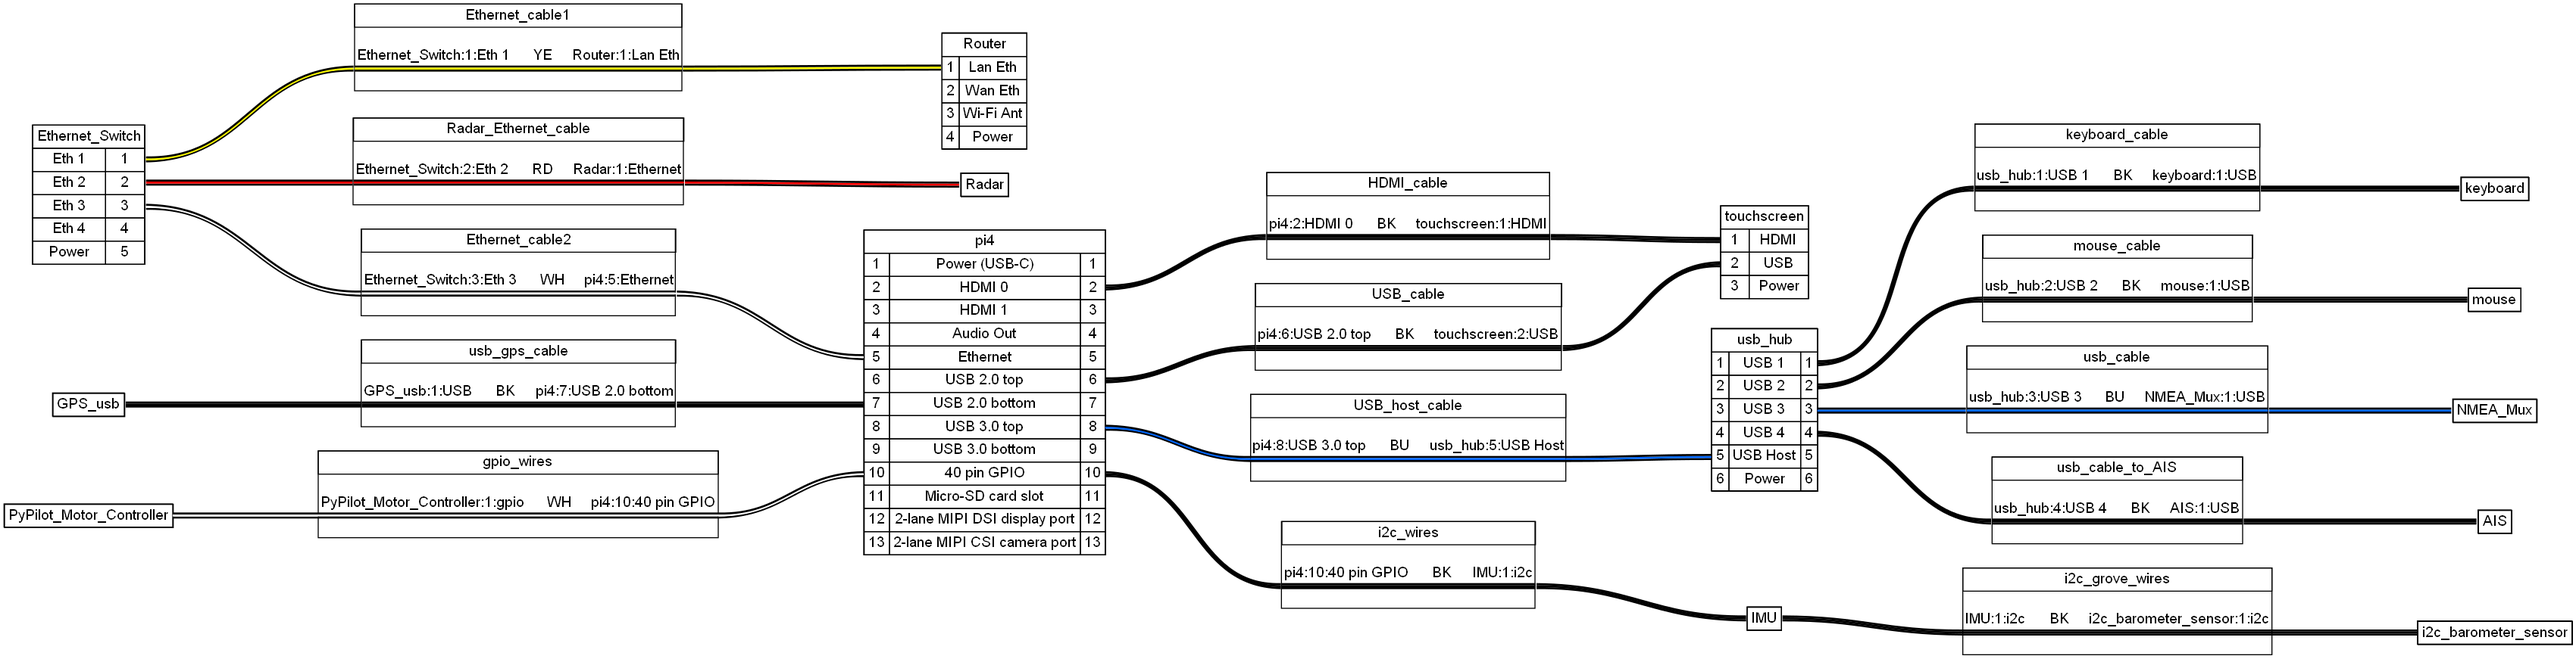
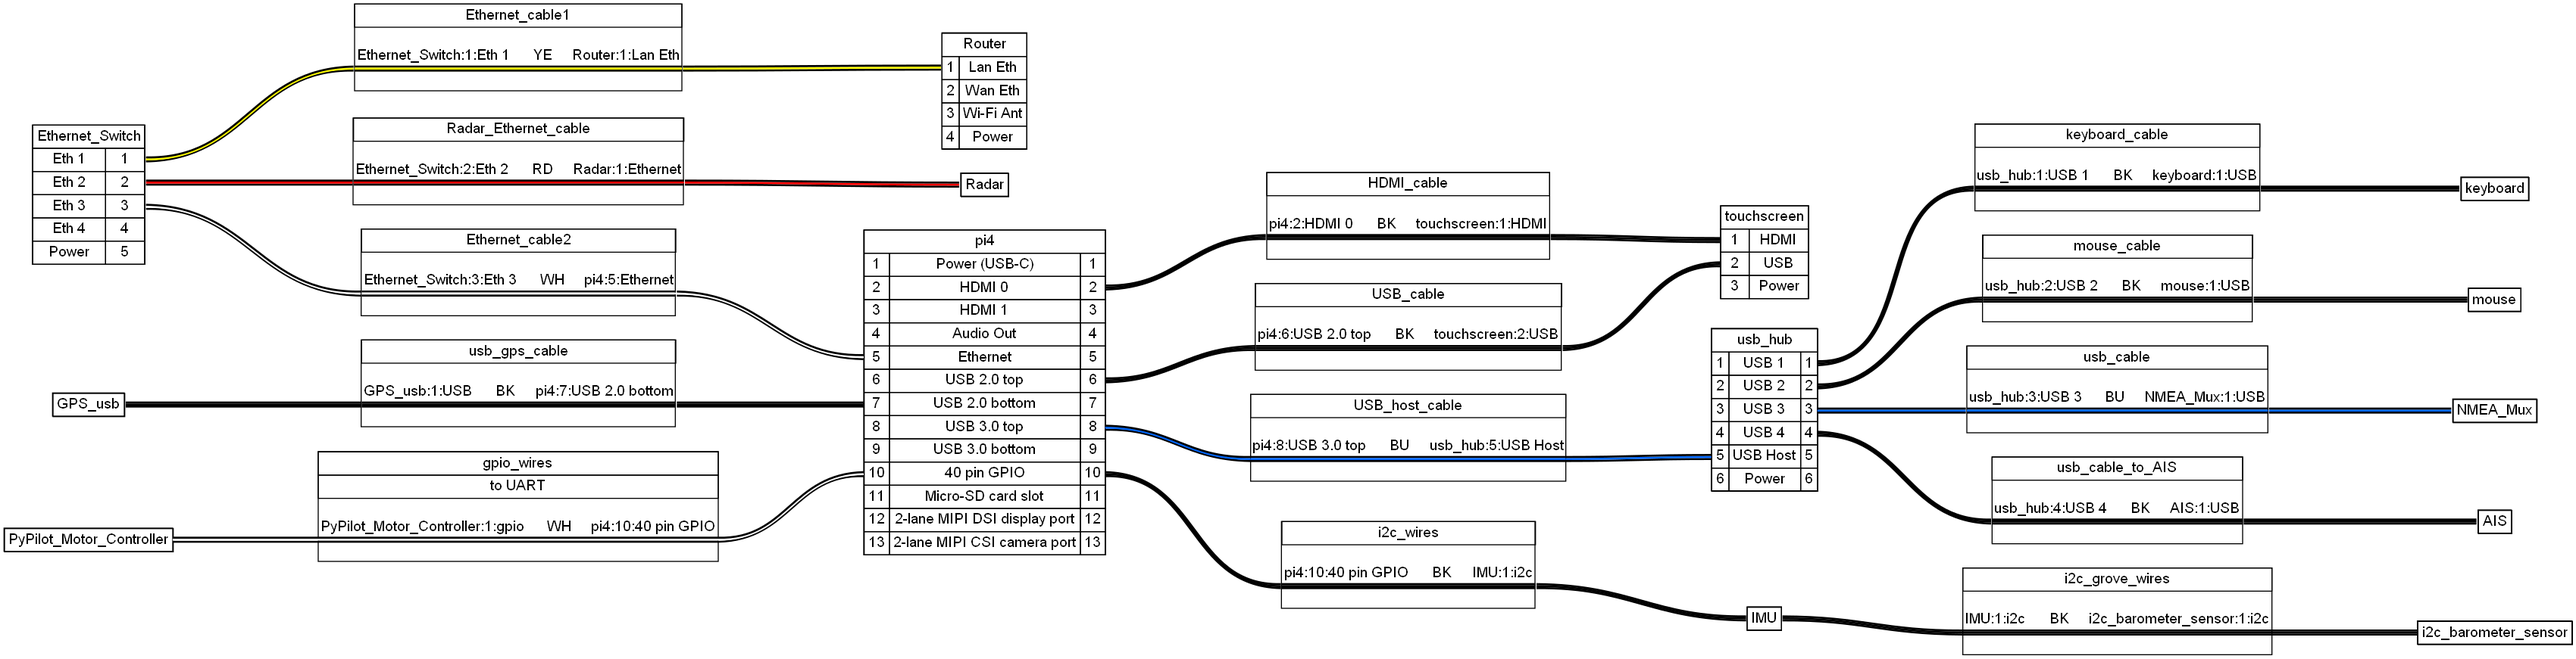
upd

Changed region(s): [[0.0, 0.682, 0.3118, 0.837], [0.3118, 0.713, 0.3429, 0.744]]

diff --git a/pi4/computer.html b/pi4/computer.html
@@ -556,31 +556,33 @@
 <!-- PyPilot_Motor_Controller -->
 <g id="node14" class="node">
 <title>PyPilot_Motor_Controller</title>
-<polygon fill="#ffffff" stroke="black" points="167,-149.5 0,-149.5 0,-126.5 167,-126.5 167,-149.5"/>
-<polygon fill="none" stroke="black" points="0.5,-126 0.5,-149 167.5,-149 167.5,-126 0.5,-126"/>
-<text text-anchor="start" x="4.5" y="-133.8" font-family="arial" font-size="14.00">PyPilot_Motor_Controller</text>
+<polygon fill="#ffffff" stroke="black" points="167,-125.5 0,-125.5 0,-102.5 167,-102.5 167,-125.5"/>
+<polygon fill="none" stroke="black" points="0.5,-102 0.5,-125 167.5,-125 167.5,-102 0.5,-102"/>
+<text text-anchor="start" x="4.5" y="-109.8" font-family="arial" font-size="14.00">PyPilot_Motor_Controller</text>
 </g>
 <!-- gpio_wires -->
 <g id="node28" class="node">
 <title>gpio_wires</title>
-<polygon fill="#ffffff" stroke="black" points="707,-202 311,-202 311,-116 707,-116 707,-202"/>
-<polygon fill="none" stroke="black" points="311,-179 311,-202 707,-202 707,-179 311,-179"/>
-<text text-anchor="start" x="474" y="-186.8" font-family="arial" font-size="14.00">gpio_wires</text>
-<text text-anchor="start" x="412" y="-165.8" font-family="arial" font-size="14.00"> </text>
-<text text-anchor="start" x="313" y="-146.8" font-family="arial" font-size="14.00">PyPilot_Motor_Controller:1:gpio</text>
-<text text-anchor="start" x="519" y="-146.8" font-family="arial" font-size="14.00"> &#160;&#160;&#160;&#160;WH &#160;&#160;&#160;</text>
-<text text-anchor="start" x="581" y="-146.8" font-family="arial" font-size="14.00">pi4:10:40 pin GPIO</text>
-<polygon fill="#000000" stroke="transparent" points="311,-139 311,-141 707,-141 707,-139 311,-139"/>
-<polygon fill="#ffffff" stroke="transparent" points="311,-137 311,-139 707,-139 707,-137 311,-137"/>
-<polygon fill="#000000" stroke="transparent" points="311,-135 311,-137 707,-137 707,-135 311,-135"/>
-<text text-anchor="start" x="412" y="-121.8" font-family="arial" font-size="14.00"> </text>
+<polygon fill="#ffffff" stroke="black" points="707,-201.5 311,-201.5 311,-92.5 707,-92.5 707,-201.5"/>
+<polygon fill="none" stroke="black" points="311,-178 311,-201 707,-201 707,-178 311,-178"/>
+<text text-anchor="start" x="474" y="-185.8" font-family="arial" font-size="14.00">gpio_wires</text>
+<polygon fill="none" stroke="black" points="311,-155 311,-178 707,-178 707,-155 311,-155"/>
+<text text-anchor="start" x="481.5" y="-162.8" font-family="arial" font-size="14.00">to UART</text>
+<text text-anchor="start" x="412" y="-141.8" font-family="arial" font-size="14.00"> </text>
+<text text-anchor="start" x="313" y="-122.8" font-family="arial" font-size="14.00">PyPilot_Motor_Controller:1:gpio</text>
+<text text-anchor="start" x="519" y="-122.8" font-family="arial" font-size="14.00"> &#160;&#160;&#160;&#160;WH &#160;&#160;&#160;</text>
+<text text-anchor="start" x="581" y="-122.8" font-family="arial" font-size="14.00">pi4:10:40 pin GPIO</text>
+<polygon fill="#000000" stroke="transparent" points="311,-115 311,-117 707,-117 707,-115 311,-115"/>
+<polygon fill="#ffffff" stroke="transparent" points="311,-113 311,-115 707,-115 707,-113 311,-113"/>
+<polygon fill="#000000" stroke="transparent" points="311,-111 311,-113 707,-113 707,-111 311,-111"/>
+<text text-anchor="start" x="412" y="-97.8" font-family="arial" font-size="14.00"> </text>
 </g>
 <!-- PyPilot_Motor_Controller&#45;&#45;gpio_wires -->
 <g id="edge27" class="edge">
 <title>PyPilot_Motor_Controller:e&#45;&#45;gpio_wires:w</title>
-<path fill="none" stroke="#000000" stroke-width="2" d="M167,-136C231,-136 247,-136 311,-136"/>
-<path fill="none" stroke="#ffffff" stroke-width="2" d="M167,-138C231,-138 247,-138 311,-138"/>
-<path fill="none" stroke="#000000" stroke-width="2" d="M167,-140C231,-140 247,-140 311,-140"/>
+<path fill="none" stroke="#000000" stroke-width="2" d="M167,-112C231,-112 247,-112 311,-112"/>
+<path fill="none" stroke="#ffffff" stroke-width="2" d="M167,-114C231,-114 247,-114 311,-114"/>
+<path fill="none" stroke="#000000" stroke-width="2" d="M167,-116C231,-116 247,-116 311,-116"/>
 </g>
 <!-- USB_host_cable&#45;&#45;usb_hub -->
 <g id="edge2" class="edge">
@@ -676,9 +678,9 @@
 <!-- gpio_wires&#45;&#45;pi4 -->
 <g id="edge28" class="edge">
 <title>gpio_wires:e&#45;&#45;pi4:w</title>
-<path fill="none" stroke="#000000" stroke-width="2" d="M707,-136C775.48,-137.49 786.39,-178.49 851,-177"/>
-<path fill="none" stroke="#ffffff" stroke-width="2" d="M707,-138C773.54,-138 784.46,-179 851,-179"/>
-<path fill="none" stroke="#000000" stroke-width="2" d="M707,-140C771.61,-138.51 782.52,-179.51 851,-181"/>
+<path fill="none" stroke="#000000" stroke-width="2" d="M707,-112C779.22,-113.89 782.78,-178.89 851,-177"/>
+<path fill="none" stroke="#ffffff" stroke-width="2" d="M707,-114C777.22,-114 780.78,-179 851,-179"/>
+<path fill="none" stroke="#000000" stroke-width="2" d="M707,-116C775.22,-114.11 778.78,-179.11 851,-181"/>
 </g>
 </g>
 </svg>
@@ -696,10 +698,17 @@
   <td style="border:1px solid #000000; padding: 4px">Cable, 1 wires</td>
   <td style="border:1px solid #000000; padding: 4px; text-align:right">0</td>
   <td style="border:1px solid #000000; padding: 4px">m</td>
-  <td style="border:1px solid #000000; padding: 4px">Ethernet_cable1, Ethernet_cable2, HDMI_cable, Radar_Ethernet_cable, USB_cable, USB_host_cable, gpio_wires, i2c_grove_wires, i2c_wires, keyboard_cable, mouse_cable, usb_cable, usb_cable_to_AIS, usb_gps_cable</td>
+  <td style="border:1px solid #000000; padding: 4px">Ethernet_cable1, Ethernet_cable2, HDMI_cable, Radar_Ethernet_cable, USB_cable, USB_host_cable, i2c_grove_wires, i2c_wires, keyboard_cable, mouse_cable, usb_cable, usb_cable_to_AIS, usb_gps_cable</td>
  </tr>
  <tr>
   <td style="border:1px solid #000000; padding: 4px">2</td>
+  <td style="border:1px solid #000000; padding: 4px">Cable, to UART, 1 wires</td>
+  <td style="border:1px solid #000000; padding: 4px; text-align:right">0</td>
+  <td style="border:1px solid #000000; padding: 4px">m</td>
+  <td style="border:1px solid #000000; padding: 4px">gpio_wires</td>
+ </tr>
+ <tr>
+  <td style="border:1px solid #000000; padding: 4px">3</td>
   <td style="border:1px solid #000000; padding: 4px">Connector</td>
   <td style="border:1px solid #000000; padding: 4px; text-align:right">14</td>
   <td style="border:1px solid #000000; padding: 4px"></td>
